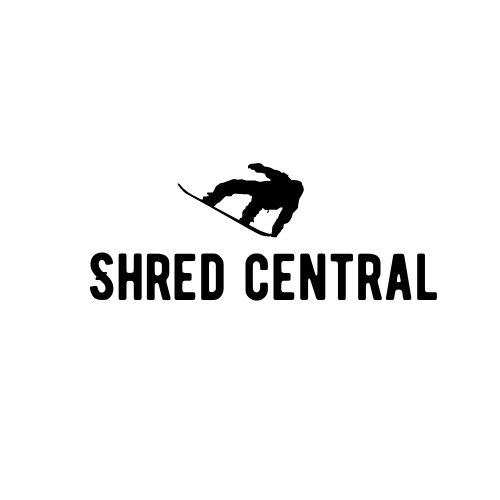
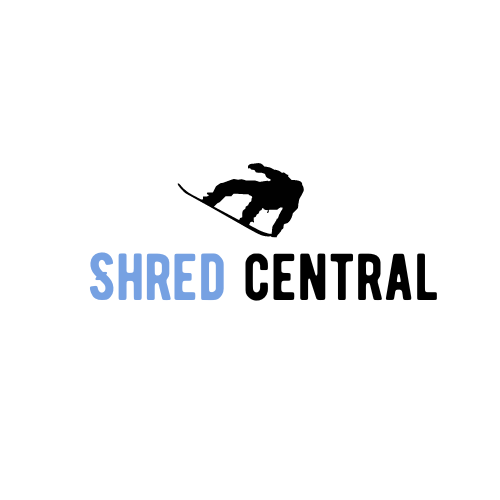
Fixed users carts overlapping with eachother and restricted file upload

Changed region(s): [[0.18, 0.48, 0.45, 0.6]]

diff --git a/backend/routes/uploadRoutes.js b/backend/routes/uploadRoutes.js
@@ -14,26 +14,34 @@ const storage = multer.diskStorage({
     }
 })
 
-function checkFileType(file, cb) {
-    const filetypes = /jpg|jpeg|png/;
+function fileFilter(req, file, cb) {
+    const filetypes = /jpe?g|png|webp/;
+    const mimetypes = /image\/jpe?g|image\/png|image\/webp/;
+  
     const extname = filetypes.test(path.extname(file.originalname).toLowerCase());
-    const mimetype = filetypes.test(file.mimetype);
+    const mimetype = mimetypes.test(file.mimetype);
+  
     if (extname && mimetype) {
-        return cb(null, true);
+      cb(null, true);
     } else {
-        cb('Images only!');
+      cb(new Error('Images only!'), false);
     }
-}
+  }
 
-const upload = multer({
-    storage,
-});
+const upload = multer({ storage, fileFilter });
+const uploadSingleImage = upload.single('image');
 
-router.post('/', upload.single('image'), (req, res) => {
-    res.send({
-        message: 'Image uploaded',
-        image: `/${req.file.path}`
+router.post('/', (req, res) => {
+    uploadSingleImage(req, res, function (err) {
+      if (err) {
+        res.status(400).send({ message: err.message });
+      }
+  
+      res.status(200).send({
+        message: 'Image uploaded successfully',
+        image: `/${req.file.path}`,
+      });
     });
-})
+  });
 
 export default router;

diff --git a/frontend/src/screens/PlaceOrderScreen.jsx b/frontend/src/screens/PlaceOrderScreen.jsx
@@ -10,6 +10,7 @@ import { useCreateOrderMutation} from '../slices/ordersApiSlice'
 import { useUpdateProductStockMutation } from '../slices/productApiSlice'
 import { clearCartItems } from '../slices/cartSlice'
 
+
 const PlaceOrderScreen = () => {
   const navigate = useNavigate()
   const dispatch = useDispatch()
@@ -19,6 +20,7 @@ const PlaceOrderScreen = () => {
   const [updateProductStock] = useUpdateProductStockMutation()
 
   useEffect(() => {
+    
     if (!cart.shippingAddress.address) {
       navigate('/shipping')
     }
@@ -30,7 +32,6 @@ const PlaceOrderScreen = () => {
 
   //Place and create order, then redirect to order screen with the created id
   const placeOrderHandler = async () => {
-    console.log(cart.cartItems)
     try {
         //create an order
         const res = await createOrder({

diff --git a/backend/server.js b/backend/server.js
@@ -10,11 +10,13 @@ import userRoutes from './routes/userRoutes.js';
 import orderRoutes from './routes/orderRoutes.js';
 import uploadRoutes from './routes/uploadRoutes.js';
 
+
 const port = process.env.PORT || 5000;
 
 connectDB();
 
 const app=express();
+
 
 //Body parser middleware
 app.use(express.json());
@@ -28,8 +30,6 @@ app.get('/',(req,res)=>{
     }   
 );
 
-
-
 //Routes
 
 app.use('/api/products',productRoutes);
@@ -39,6 +39,8 @@ app.use('/api/upload',uploadRoutes);
 
 //Store clientId in env file so that it is not exposed to the frontend
 app.get('/api/config/paypal', (req, res) => res.send( {clientId: process.env.PAYPAL_CLIENT_ID }));
+
+
 
 //Make uploads folder static
 const _dirname = path.resolve(); 

diff --git a/frontend/src/components/ShopVideoHomepage.jsx b/frontend/src/components/ShopVideoHomepage.jsx
@@ -10,8 +10,8 @@ const ShopVideoHomepage = () => {
         <source src={videoBg} type='video/mp4' />
       </video>
       <div className="video-text home">
-        <h1 style={{ fontSize: '1.5em',  textShadow: '2px 2px #000000' }}><strong>Welcome to Shred Central</strong></h1>
-        <p style={{ fontSize: '0.75em', textShadow: '2px 2px #000000' }}> The hub for shredders looking to upgrade their gear and style. 
+        <h1 style={{ fontSize: '2.5em'}}><strong>Gear Up, <span style={{color: '#76a1e2'}}> Shred </span> Hard</strong></h1>
+        <p style={{ fontSize: '0.75em', paddingLeft: '50px' }}> Your one-stop shop for premium snowboards, gear, and apparel. 
         </p>
       </div>
     </div>

diff --git a/frontend/src/screens/PaymentScreen.jsx b/frontend/src/screens/PaymentScreen.jsx
@@ -50,7 +50,7 @@ const PaymentScreen = () => {
               checked
               onChange={(e) => setPaymentMethod(e.target.value)}
             ></Form.Check>
-            <Form.Check
+            {/* <Form.Check
               type='radio'
               className='my-2'
               label='Stripe'
@@ -58,7 +58,7 @@ const PaymentScreen = () => {
               name='paymentMethod'
               value='Stripe'
               onChange={(e) => setPaymentMethod(e.target.value)}
-            ></Form.Check>
+            ></Form.Check> */}
           </Col>
         </Form.Group>
 

diff --git a/frontend/src/slices/cartSlice.js b/frontend/src/slices/cartSlice.js
@@ -44,10 +44,11 @@ const cartSlice = createSlice({
         clearCartItems: (state) => {
             state.cartItems = []
             return updateCart(state)
-        }
+        },
+        resetCart: (state) => (state = initialState),
     }
 })
 
-export const { addToCart, removeFromCart, saveShippingAddress, savePaymentMethod, clearCartItems } = cartSlice.actions
+export const { addToCart, removeFromCart, saveShippingAddress, savePaymentMethod, clearCartItems, resetCart } = cartSlice.actions
 
 export default cartSlice.reducer

diff --git a/frontend/src/components/Header.jsx b/frontend/src/components/Header.jsx
@@ -9,6 +9,7 @@ import { useLogoutMutation } from '../slices/usersApiSlice'
 import SearchBox from './SearchBox'
 import CategoryNavigation from './CategoryNavigation'
 import { logout } from '../slices/authSlice'
+import { resetCart } from '../slices/cartSlice'
 
 
 
@@ -26,6 +27,7 @@ const Header = () => {
     try {
       await logoutApiCall().unwrap()
       dispatch(logout())   
+      dispatch(resetCart())
       navigate('/login')
     } catch (error) {
       console.error('Failed to logout:', error)

diff --git a/frontend/src/assets/styles/index.css b/frontend/src/assets/styles/index.css
@@ -147,7 +147,7 @@ table th {
   border-radius: 0px;
   padding: 5px 10px;
   cursor: pointer;
-  color: black;
+  color: white;
   
   transition: all 0.2s ease-in-out;
   
@@ -160,9 +160,10 @@ table th {
 
 .active-button {
   font-weight: bold;
+  font-size: 1.2em;
   box-shadow: 0px 3px 0px 0px rgba(0, 0, 0);
   text-shadow: none;
-  color: #fff;
+  color: rgb(118, 161, 226)
 }
 
 .product-image {

diff --git a/frontend/src/slices/authSlice.js b/frontend/src/slices/authSlice.js
@@ -17,7 +17,7 @@ const authSlice = createSlice({
         },
         logout: (state, action) => {
             state.userInfo = null
-            localStorage.removeItem('userInfo')
+            localStorage.clear();
         }
     }
 })
